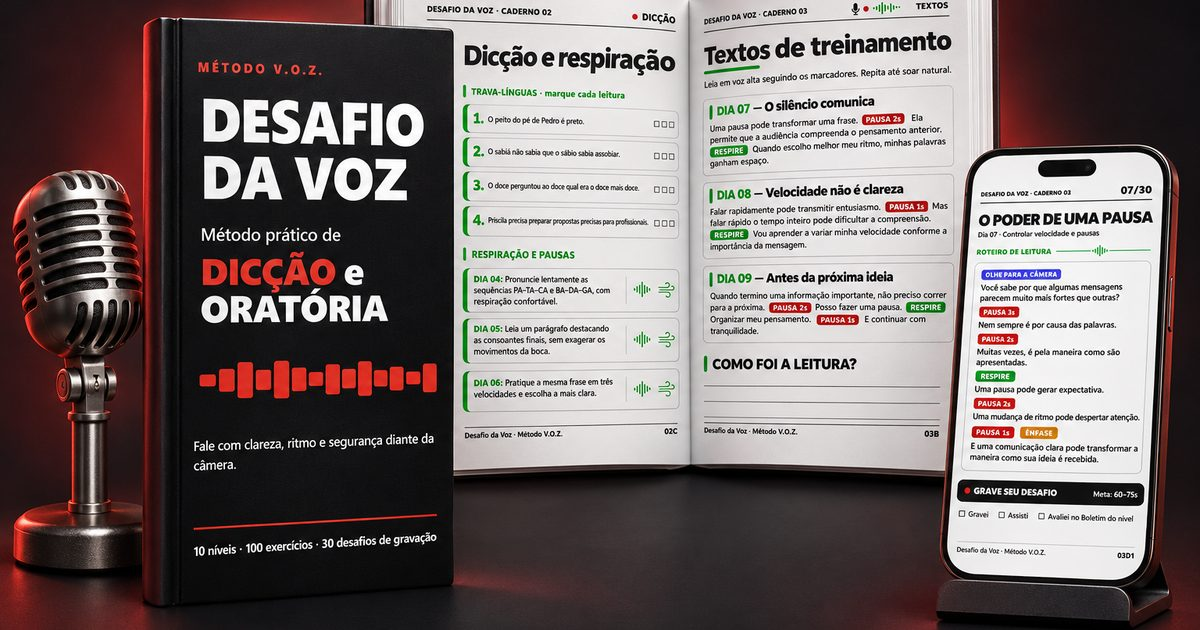
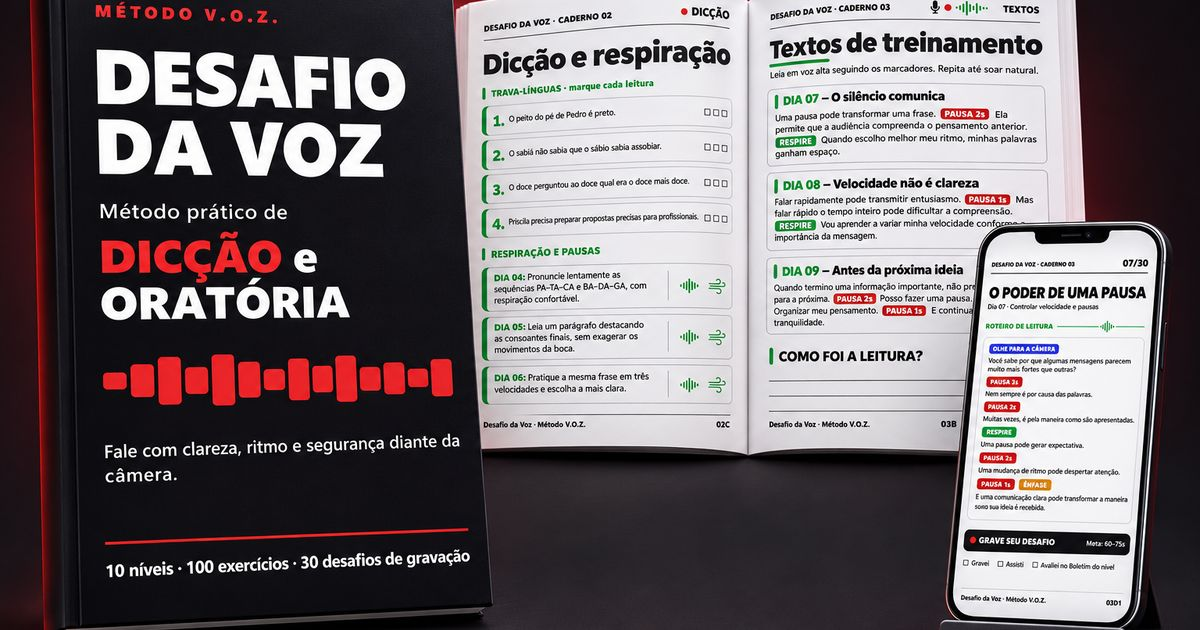
Hero: título, subtítulo, mockup só com os materiais e CTA abaixo da imagem

diff --git a/index.html b/index.html
@@ -108,6 +108,11 @@ section{scroll-margin-top:70px}
 .waves{position:absolute;inset:auto 0 0 0;height:120px;opacity:.12;pointer-events:none}
 
 /* mockup do kit (ilustrativo, troque por imagem depois) */
+.hero .wrap.hero-c{display:block;max-width:920px;text-align:center}
+.hero-c h1{margin:0 auto 18px;max-width:860px}
+.hero-c .lead{margin:0 auto;max-width:720px}
+.hero-c .hero-img{margin:36px auto 30px;max-width:820px}
+.hero-c .btn{margin-top:0}
 .hero-list{list-style:none;display:grid;gap:10px;margin-top:22px}
 .hero-list li{display:flex;gap:10px;align-items:flex-start;color:#E4E4E7;font-size:1rem}
 .hero-list svg{width:20px;height:20px;color:#EF4444;flex:none;margin-top:3px}
@@ -348,23 +353,11 @@ footer a{color:#D4D4D8}
 <!-- 01 HERO -->
 <section class="hero dark" id="topo" aria-labelledby="hero-t">
   <svg class="waves" viewBox="0 0 1200 120" preserveAspectRatio="none" aria-hidden="true"><path d="M0 60 Q 50 10 100 60 T 200 60 T 300 60 T 400 60 T 500 60 T 600 60 T 700 60 T 800 60 T 900 60 T 1000 60 T 1100 60 T 1200 60" stroke="#DC2626" stroke-width="2" fill="none"/><path d="M0 60 Q 75 100 150 60 T 300 60 T 450 60 T 600 60 T 750 60 T 900 60 T 1050 60 T 1200 60" stroke="#fff" stroke-width="1.5" fill="none"/></svg>
-  <div class="wrap">
-    <div>
-      <span class="rec"><b></b>MÉTODO V.O.Z. · DICÇÃO E ORATÓRIA NA PRÁTICA</span>
-      <h1 id="hero-t">Melhore sua <span class="red">dicção e oratória</span> e fale com mais segurança diante da câmera.</h1>
-      <p class="lead">Para quem sabe o que quer dizer, mas trava, acelera ou embola as palavras na hora de gravar. O Método V.O.Z. é um treino guiado de 30 dias com exercícios de dicção, respiração, ritmo e oratória — do primeiro vídeo de 30 segundos até uma apresentação completa.</p>
-      <ul class="hero-list">
-        <li><svg><use href="#i-check"/></svg><span><b>Dicção mais clara:</b> articule as palavras sem engolir sílabas.</span></li>
-        <li><svg><use href="#i-check"/></svg><span><b>Oratória organizada:</b> pausas, ritmo e respiração no lugar certo.</span></li>
-        <li><svg><use href="#i-check"/></svg><span><b>Segurança para gravar:</b> 30 desafios práticos, do zero ao HARD.</span></li>
-      </ul>
-      <a href="#oferta" class="btn btn-red">QUERO MELHORAR MINHA DICÇÃO E ORATÓRIA <svg><use href="#i-arrow"/></svg></a>
-      <p class="mini">Material 100% digital • Pagamento único • Acesso após confirmação do pagamento</p>
-    </div>
-    <div>
-      <img class="hero-img" src="img/mockup-kit.webp" width="1400" height="933" fetchpriority="high" decoding="async" alt="Desafio da Voz, método prático de dicção e oratória: caderno principal, páginas de exercícios de dicção e roteiro com pausas, e um desafio de gravação no celular">
-      <p class="ill">Imagem ilustrativa do material digital</p>
-    </div>
+  <div class="wrap hero-c">
+    <h1 id="hero-t">Melhore sua <span class="red">dicção e oratória</span> e fale com mais segurança diante da câmera.</h1>
+    <p class="lead">Chega de travar, acelerar ou embolar as palavras na hora de gravar. O Método V.O.Z. é um treino guiado de 30 dias com exercícios de dicção, respiração, ritmo e oratória — do primeiro vídeo de 30 segundos até uma apresentação completa.</p>
+    <img class="hero-img" src="img/mockup-kit.webp" width="1400" height="933" fetchpriority="high" decoding="async" alt="Materiais do Desafio da Voz, método prático de dicção e oratória: caderno principal, páginas de exercícios de dicção e roteiro com pausas, e um desafio de gravação no celular">
+    <a href="#oferta" class="btn btn-red">QUERO MELHORAR MINHA DICÇÃO E ORATÓRIA <svg><use href="#i-arrow"/></svg></a>
   </div>
 </section>
 
